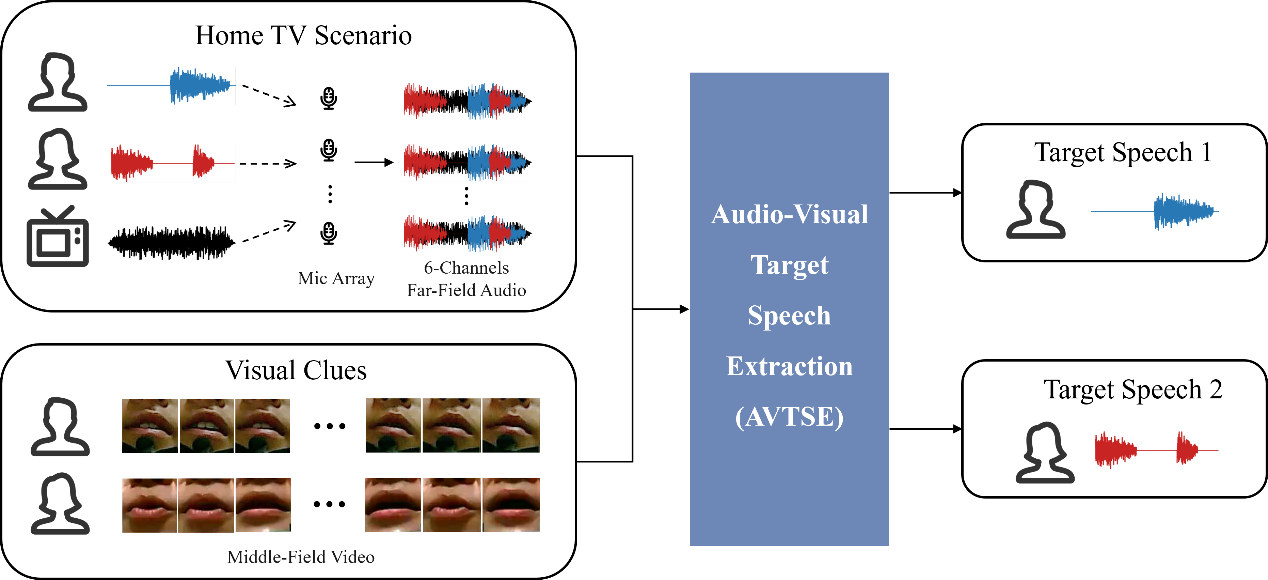
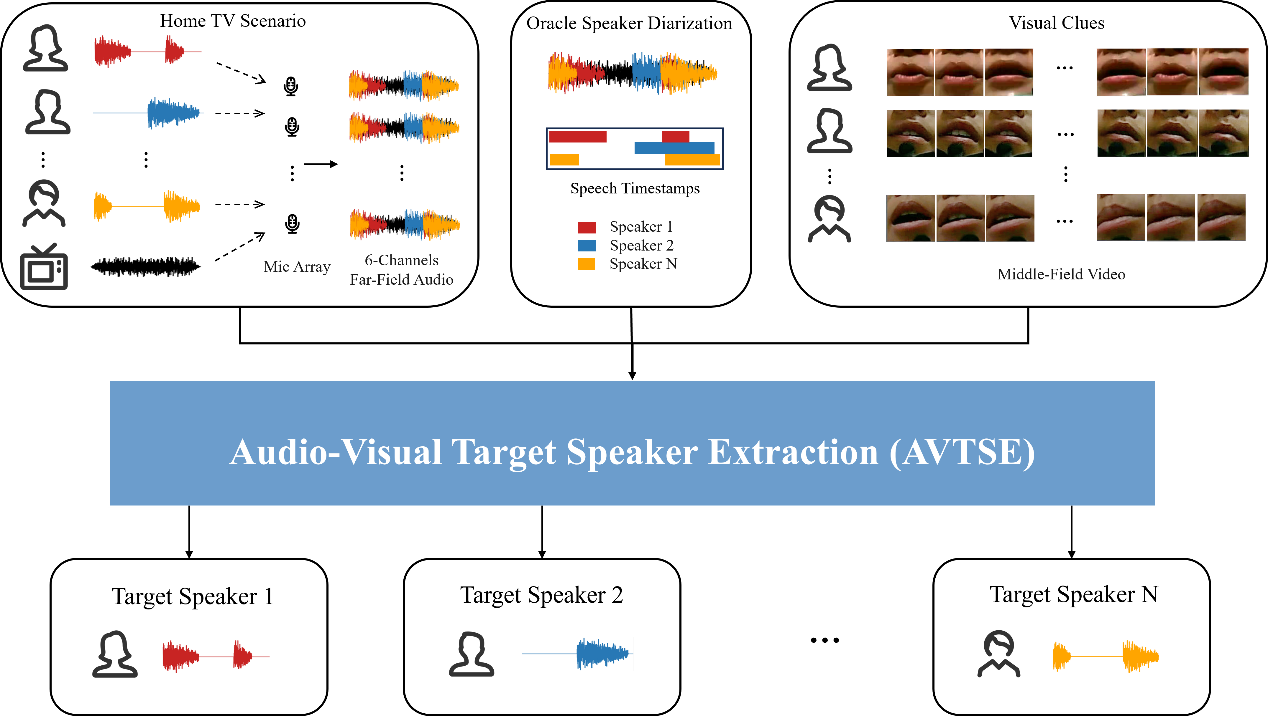
u

diff --git a/overview.html b/overview.html
@@ -69,19 +69,22 @@
                   					</header>
 									  <p>Speech-enabled systems encounter performance degradation in real-world scenarios due to adverse acoustic conditions and interactions among multiple speakers. Effective front-end speech processing technology has been proven to have a significant role in improving the performance of the back-end system. In recent years, there have been several challenges organized to explore the performance of front-end technologies. However, it is worth noting that most existing challenges rely on the audio modality alone, which is running into performance plateaus. Inspired by the finding that visual cues can help human speech perception, we hope to explore more effective methods using audio and video information jointly to improve the performance of front-end technology. Therefore, the MISP 2023 Challenge focuses on audio-visual front-end technology.</p>
 
-									  <p>For front-end speech processing, methods such as speaker diarization, blind source separation, and speech enhancement are commonly utilized to provide the subsequent backend tasks with higher-quality audio or audio information. Target Speech extraction (TSE) is an alternative to blind source separation and speech enhancement, which can selectively isolate the target speaker’s voice from a mixture of various speakers and background noise, leveraging auxiliary cues that help identify the target. Previous psychoacoustic studies have inspired the exploration of different clues, such as spatial aids for determining the direction of the target speaker, visual prompts acquired via video of their face, and audio cues from prerecorded enrollment recordings of the speaker’s voice. Addressing the TSE problem has practical implications for various applications, such as (1) developing robust voice user interfaces and voice-controlled smart devices that respond exclusively to a particular user, (2) removal of interfering nearby speakers in teleconferencing systems, and (3) amplifying the voice of a preferred speaker with hearing aids/hearables. TSE has received much attention in recent years. For instance, it was included as a separate challenge in recent evaluation campaigns, such as the 4th and 5th Deep Noise Suppression (DNS) challenge. Previous challenges only focused on audio cues, mainly by providing prerecorded enrollment recordings of the speaker’s voice. However, these cues are challenging to obtain under real-life harsh acoustic conditions. Conversely, video cues are relatively unaffected by acoustic interference. As a result, an increasing number of researches focus on audio-visual target speech extraction (AVTSE) utilizing video cues. Unfortunately, no publicly available benchmark currently exists for AVTSE.</p>
+									  <p>For front-end speech processing, methods such as speaker diarization, blind source separation, and speech enhancement are commonly utilized to provide the subsequent backend tasks with higher-quality audio or audio information. Target Speaker extraction (TSE) is an alternative to blind source separation and speech enhancement, which can selectively isolate the target speaker’s voice from a mixture of various speakers and background noise, leveraging auxiliary cues that help identify the target. Previous psychoacoustic studies have inspired the exploration of different clues, such as spatial aids for determining the direction of the target speaker, visual prompts acquired via video of their face, and audio cues from prerecorded enrollment recordings of the speaker’s voice. Addressing the TSE problem has practical implications for various applications, such as (1) developing robust voice user interfaces and voice-controlled smart devices that respond exclusively to a particular user, (2) removal of interfering nearby speakers in teleconferencing systems, and (3) amplifying the voice of a preferred speaker with hearing aids/hearables. TSE has received much attention in recent years. For instance, it was included as a separate challenge in recent evaluation campaigns, such as the 4th and 5th Deep Noise Suppression (DNS) challenge. Previous challenges only focused on audio cues, mainly by providing prerecorded enrollment recordings of the speaker’s voice. However, these cues are challenging to obtain under real-life harsh acoustic conditions. Conversely, video cues are relatively unaffected by acoustic interference. As a result, an increasing number of researches focus on audio-visual target speaker extraction (AVTSE) utilizing video cues. Unfortunately, no publicly available benchmark currently exists for AVTSE.</p>
 									  
+
+									  <p>How to better utilize the information of audio and video information is of great importance. In the previous MISP challenges, the effectiveness of combining audio and video has been verified on many tasks. In the ICASSP 2022 SPGC, the first MISP challenge released a large distant multi-microphone conversational Chinese audio-visual corpus and focused on audio-visual wake word spotting and audio-visual speech recognition with oracle speaker diarization. Furthermore, in the ICASSP 2023 SPGC, the second MISP challenge explored the impact of audio-visual speaker diarization on speech recognition. Many participants have proposed several novel methods to improve the performance of audio-visual speech processing systems. We have communicated with the participants and they unanimously believe that an excellent front-end system can greatly help with back-end tasks. Therefore, this year, MISP 2023 challenge focuses the problem of AVTSE, aiming to promote the development of audio-visual front-end technology and explore the impact of the front-end technology on the back-end system. We hope this is a scientific issue aimed at exploring the performance of AVTSE in real-world scenarios with high noise and reverberation.</p>
+									
 									  <center>
 										<figure style="padding:0px;border:0px; margin:0px">
 										<img src="images/2023_fig1.png" alt="Schematic Diagram" style="width:70%;padding:0px;border:0" />
-										<figcaption>Fig.1. An overview of the AVTSE task in MISP 2023 challenge (example of a two-speakers communication scenario with TV noise in the background)</figcaption>
+										<figcaption>Fig.1. An overview of the AVTSE task in MISP 2023 challenge</figcaption>
 										</figure>
 									 </center>
 
-									  <p>How to better utilize the information of audio and video information is of great importance. In the previous MISP challenges, the effectiveness of combining audio and video has been verified on many tasks. In the ICASSP 2022 SPGC, the first MISP challenge released a large distant multi-microphone conversational Chinese audio-visual corpus and focused on audio-visual wake word spotting and audio-visual speech recognition with oracle speaker diarization. Furthermore, in the ICASSP 2023 SPGC, the second MISP challenge explored the impact of audio-visual speaker diarization on speech recognition. Many participants have proposed several novel methods to improve the performance of audio-visual speech processing systems. We have communicated with the participants and they unanimously believe that an excellent front-end system can greatly help with back-end tasks. Therefore, this year, MISP 2023 challenge focuses the problem of AVTSE, aiming to promote the development of audio-visual front-end technology and explore the impact of the front-end technology on the back-end system. We hope this is a scientific issue aimed at exploring the performance of AVTSE in real-world scenarios with high noise and reverberation.</p>
-
-									  <p>In this challenge, we need to tackle mixture speech from complex home scenarios, which include strong background noise and high overlap ratios due to the interfering speakers. With visual information to indicate the target speaker, using the AVTSE model, participants can extract the target speech from far-field audio, eliminating noise and interference from other speakers.</p>
-
+									  <!-- <p>In this challenge, we need to tackle mixture speech from complex home scenarios, which include strong background noise and high overlap ratios due to the interfering speakers. With visual information to indicate the target speaker, using the AVTSE model, participants can extract the target speech from far-field audio, eliminating noise and interference from other speakers.</p> -->
+									
+									  <p>As shown in figure 1, in this challenge, we need to tackle mixture speech from complex home scenarios, which include strong background noise and high overlap ratios due to the interfering speakers. Participants need to use the 6-channels far-field audio, the middle-field video, and the oracle speaker diarization result to extract the target speaker’s speech through the AVTSE model, eliminating noise and interference from other speakers. All speakers in a session are treated as the target speakers separately.</p>
+									  
 									  <p>Specifically, we target the home TV scenario, where several people chat in Chinese while watching TV in the living room. Unlike most previous audio-visual challenges, which are still limited to conducting research on the datasets under ideal condition, the MISP challenge is based on real-world scenarios. The strong background noise and reverberation, a large number of overlapping speech, and the possible blurry videos are the challenges of this audiovisual dataset. This year, different from the previous MISP dataset, we will conduct data cleansing on the training set for front-end tasks. We use the deep noise suppression mean opinion score (DNSMOS) to screen the segments with high speech quality for near-field audio. These data can be used as clean reference speech for model training by participants. To ensure complete synchronization of near-field audio and far-field audio, we will provide a data simulation script that allows participants to utilize the screened near-field speech to simulate far-field scenarios easily. We will also add some new sessions in the evaluation set, focusing on female dialogue scenarios. Our research has revealed that distinguishing speaker voices in these particular scenarios is more challenging, thus increasing the difficulty level for participants. In addition, we will provide the timestamps of each speaker’s speech, which contestants can use to segment the audio. Furthermore, a well-designed novel baseline system of AVTSE will be provided and we will also provide a pretrained model for audio-visual speech recognition (AVSR) as the backend. Participants must develop an AVTSE system and input the extracted speech from AVTSE into the given AVSR model. To explore the impact of the front-end technology on the back-end system, we will evaluate the performance based on the final character error rate (CER).</p>
 
 									  <p>Through this challenge, we look forward to more academic and industrial researchers paying attention to the audio-visual front-end technology, especially AVTSE. This provides a new and important solution for solving the problem of performance degradation in complex acoustic scenes. We anticipate that this challenge will foster innovative approaches and advancements in multimodal speech processing.</p>

diff --git a/index.html b/index.html
@@ -81,10 +81,10 @@
 			<div class="container">
 
 				<h1 style="font-size: 150%;">Introduction</h1>
-					<p>Following the success of the <a href="https://mispchallenge.github.io/mispchallenge2021">first</a> and <a href="https://mispchallenge.github.io/mispchallenge2022">second</a>  MISP challenge, we are pleased to announce the third MISP challenge. In light of the contributions of the front-end system and the finding that visual cues can aid human speech perception, the focus of the MISP 2023 challenge is on the audio-visual target speech extraction (AVTSE) problem, which aims to extract the target speech from mixtures containing various speakers and background noise. With both audio and visual data provided, the challenge considers the problem of audio-visual distant multi-microphone signal processing in everyday home TV scenarios, where several people are chatting while watching TV in the living room. The strong background noise, high overlaps ratios, and possible blurry videos are the challenges in MISP dataset. We warmly invite researchers from both academia and industry to participate in our challenge for promoting speech processing research using multi-modal information to cross the practical threshold of realistic applications in challenging scenarios.</p>
+					<p>Following the success of the <a href="https://mispchallenge.github.io/mispchallenge2021">first</a> and <a href="https://mispchallenge.github.io/mispchallenge2022">second</a>  MISP challenge, we are pleased to announce the third MISP challenge. In light of the contributions of the front-end system and the finding that visual cues can aid human speech perception, the focus of the MISP 2023 challenge is on the audio-visual target speaker extraction (AVTSE) problem, which aims to extract the target speaker’s speech from mixtures containing various speakers and background noise. With both audio and visual data provided, the challenge considers the problem of audio-visual distant multi-microphone signal processing in everyday home TV scenarios, where several people are chatting while watching TV in the living room. The strong background noise, high overlaps ratios, and possible blurry videos are the challenges in MISP dataset. We warmly invite researchers from both academia and industry to participate in our challenge for promoting speech processing research using multi-modal information to cross the practical threshold of realistic applications in challenging scenarios.</p>
 
 					<p>MISP 2023 challenge features one task: </p>	
-					<P style="text-indent: 30px;">Audio-Visual Target Speech Extraction </P>
+					<P style="text-indent: 30px;">Audio-Visual Target Speaker Extraction </P>
 						
 					<p>On this web site you will find everything you need to get started, including,</p>
 					<ul>

diff --git a/task1_instructions.html b/task1_instructions.html
@@ -62,7 +62,7 @@
 					<div class="container">
 						
 						<h1 style="font-size: 150%;">Instructions</h1>
-						<p>Audio-visual target speech extraction (AVTSE) aims to extract the target speech from mixtures containing various speakers and background noise using audio and video data. In MISP 2023 challenge, in the development and evaluation stage, we only use middle-field video and 6-channels far-field audio. In addition, we will provide speaker related speech timestamps, which participants can use to segment the audio.</p>
+						<p>Audio-visual target speaker extraction (AVTSE) aims to extract the target speaker’s speech from mixtures containing various speakers and background noise using audio and video data. In MISP 2023 challenge, in the development and evaluation stage, we only use middle-field video and 6-channels far-field audio. In addition, we will provide speaker related speech timestamps, which participants can use to segment the audio.</p>
 						
 
 						<h1 style="font-size: 150%;">Evaluation</h1>
